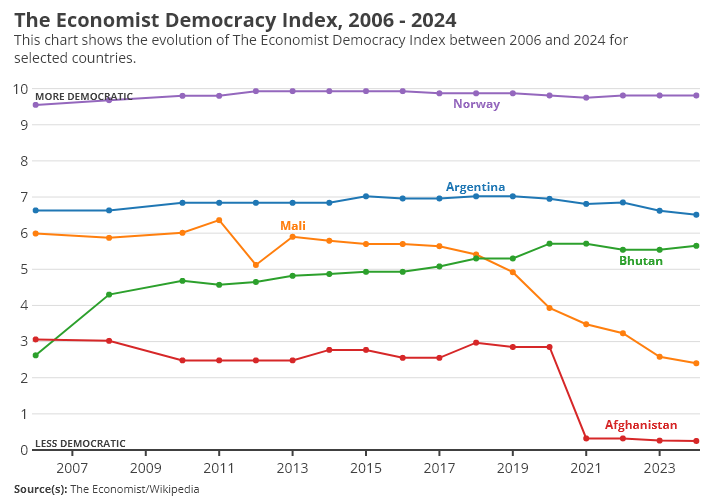
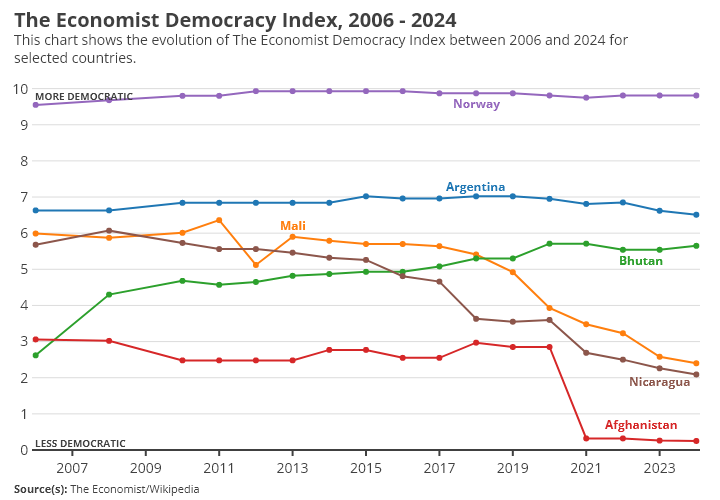
Add Nicaragua to figures.

diff --git a/reports/html/time_series_by_country.html b/reports/html/time_series_by_country.html
@@ -1,2 +1,2 @@
 <div>                        <script type="text/javascript">window.PlotlyConfig = {MathJaxConfig: 'local'};</script>
-        <script charset="utf-8" src="https://cdn.plot.ly/plotly-3.0.1.min.js"></script>                <div id="cc7f9410-89a2-4678-ba65-f77029b465cd" class="plotly-graph-div" style="height:500px; width:720px;"></div>            <script type="text/javascript">                window.PLOTLYENV=window.PLOTLYENV || {};                                if (document.getElementById("cc7f9410-89a2-4678-ba65-f77029b465cd")) {                    Plotly.newPlot(                        "cc7f9410-89a2-4678-ba65-f77029b465cd",                        [{"hoverlabel":{"bgcolor":"white","bordercolor":"rgb(0, 0, 0, 0)","font":{"color":"#1f77b4"}},"hovertemplate":"\u003cb\u003e%{data.name}\u003c\u002fb\u003e\u003cbr\u003eYear: %{x}\u003cbr\u003eIndex: %{y}\u003cextra\u003e\u003c\u002fextra\u003e","line":{"color":"#1f77b4","width":2},"mode":"markers+lines","name":"Argentina","x":{"dtype":"i2","bdata":"6AfnB+YH5QfkB+MH4gfhB+AH3wfeB90H3AfbB9oH2AfWBw=="},"y":{"dtype":"f8","bdata":"CtejcD0KGkB7FK5H4XoaQGZmZmZmZhtAPQrXo3A9G0DNzMzMzMwbQBSuR+F6FBxAFK5H4XoUHEDXo3A9CtcbQNejcD0K1xtAFK5H4XoUHEBcj8L1KFwbQFyPwvUoXBtAXI\u002fC9ShcG0Bcj8L1KFwbQFyPwvUoXBtAhetRuB6FGkCF61G4HoUaQA=="},"type":"scatter"},{"hoverlabel":{"bgcolor":"white","bordercolor":"rgb(0, 0, 0, 0)","font":{"color":"#ff7f0e"}},"hovertemplate":"\u003cb\u003e%{data.name}\u003c\u002fb\u003e\u003cbr\u003eYear: %{x}\u003cbr\u003eIndex: %{y}\u003cextra\u003e\u003c\u002fextra\u003e","line":{"color":"#ff7f0e","width":2},"mode":"markers+lines","name":"Mali","x":{"dtype":"i2","bdata":"6AfnB+YH5QfkB+MH4gfhB+AH3wfeB90H3AfbB9oH2AfWBw=="},"y":{"dtype":"f8","bdata":"MzMzMzMzA0CkcD0K16MEQNejcD0K1wlA16NwPQrXC0BxPQrXo3APQK5H4XoUrhNApHA9CtejFUCPwvUoXI8WQM3MzMzMzBZAzczMzMzMFkApXI\u002fC9SgXQJqZmZmZmRdAexSuR+F6FEBxPQrXo3AZQArXo3A9ChhAexSuR+F6F0D2KFyPwvUXQA=="},"type":"scatter"},{"hoverlabel":{"bgcolor":"white","bordercolor":"rgb(0, 0, 0, 0)","font":{"color":"#2ca02c"}},"hovertemplate":"\u003cb\u003e%{data.name}\u003c\u002fb\u003e\u003cbr\u003eYear: %{x}\u003cbr\u003eIndex: %{y}\u003cextra\u003e\u003c\u002fextra\u003e","line":{"color":"#2ca02c","width":2},"mode":"markers+lines","name":"Bhutan","x":{"dtype":"i2","bdata":"6AfnB+YH5QfkB+MH4gfhB+AH3wfeB90H3AfbB9oH2AfWBw=="},"y":{"dtype":"f8","bdata":"mpmZmZmZFkApXI\u002fC9SgWQClcj8L1KBZA16NwPQrXFkDXo3A9CtcWQDMzMzMzMxVAMzMzMzMzFUBSuB6F61EUQLgehetRuBNAuB6F61G4E0B7FK5H4XoTQEjhehSuRxNAmpmZmZmZEkBI4XoUrkcSQLgehetRuBJAMzMzMzMzEUD2KFyPwvUEQA=="},"type":"scatter"},{"hoverlabel":{"bgcolor":"white","bordercolor":"rgb(0, 0, 0, 0)","font":{"color":"#d62728"}},"hovertemplate":"\u003cb\u003e%{data.name}\u003c\u002fb\u003e\u003cbr\u003eYear: %{x}\u003cbr\u003eIndex: %{y}\u003cextra\u003e\u003c\u002fextra\u003e","line":{"color":"#d62728","width":2},"mode":"markers+lines","name":"Afghanistan","x":{"dtype":"i2","bdata":"6AfnB+YH5QfkB+MH4gfhB+AH3wfeB90H3AfbB9oH2AfWBw=="},"y":{"dtype":"f8","bdata":"AAAAAAAA0D+kcD0K16PQP3sUrkfhetQ\u002fexSuR+F61D\u002fNzMzMzMwGQM3MzMzMzAZAw\u002fUoXI\u002fCB0BmZmZmZmYEQGZmZmZmZgRAKVyPwvUoBkApXI\u002fC9SgGQNejcD0K1wNA16NwPQrXA0DXo3A9CtcDQNejcD0K1wNAKVyPwvUoCEB7FK5H4XoIQA=="},"type":"scatter"},{"hoverlabel":{"bgcolor":"white","bordercolor":"rgb(0, 0, 0, 0)","font":{"color":"#9467bd"}},"hovertemplate":"\u003cb\u003e%{data.name}\u003c\u002fb\u003e\u003cbr\u003eYear: %{x}\u003cbr\u003eIndex: %{y}\u003cextra\u003e\u003c\u002fextra\u003e","line":{"color":"#9467bd","width":2},"mode":"markers+lines","name":"Norway","x":{"dtype":"i2","bdata":"6AfnB+YH5QfkB+MH4gfhB+AH3wfeB90H3AfbB9oH2AfWBw=="},"y":{"dtype":"f8","bdata":"H4XrUbieI0AfhetRuJ4jQB+F61G4niNAAAAAAACAI0AfhetRuJ4jQD0K16NwvSNAPQrXo3C9I0A9CtejcL0jQFyPwvUo3CNAXI\u002fC9SjcI0Bcj8L1KNwjQFyPwvUo3CNAXI\u002fC9SjcI0CamZmZmZkjQJqZmZmZmSNAXI\u002fC9ShcI0CamZmZmRkjQA=="},"type":"scatter"}],                        {"template":{"data":{"histogram2dcontour":[{"type":"histogram2dcontour","colorbar":{"outlinewidth":0,"ticks":""},"colorscale":[[0.0,"#0d0887"],[0.1111111111111111,"#46039f"],[0.2222222222222222,"#7201a8"],[0.3333333333333333,"#9c179e"],[0.4444444444444444,"#bd3786"],[0.5555555555555556,"#d8576b"],[0.6666666666666666,"#ed7953"],[0.7777777777777778,"#fb9f3a"],[0.8888888888888888,"#fdca26"],[1.0,"#f0f921"]]}],"choropleth":[{"type":"choropleth","colorbar":{"outlinewidth":0,"ticks":""}}],"histogram2d":[{"type":"histogram2d","colorbar":{"outlinewidth":0,"ticks":""},"colorscale":[[0.0,"#0d0887"],[0.1111111111111111,"#46039f"],[0.2222222222222222,"#7201a8"],[0.3333333333333333,"#9c179e"],[0.4444444444444444,"#bd3786"],[0.5555555555555556,"#d8576b"],[0.6666666666666666,"#ed7953"],[0.7777777777777778,"#fb9f3a"],[0.8888888888888888,"#fdca26"],[1.0,"#f0f921"]]}],"heatmap":[{"type":"heatmap","colorbar":{"outlinewidth":0,"ticks":""},"colorscale":[[0.0,"#0d0887"],[0.1111111111111111,"#46039f"],[0.2222222222222222,"#7201a8"],[0.3333333333333333,"#9c179e"],[0.4444444444444444,"#bd3786"],[0.5555555555555556,"#d8576b"],[0.6666666666666666,"#ed7953"],[0.7777777777777778,"#fb9f3a"],[0.8888888888888888,"#fdca26"],[1.0,"#f0f921"]]}],"contourcarpet":[{"type":"contourcarpet","colorbar":{"outlinewidth":0,"ticks":""}}],"contour":[{"type":"contour","colorbar":{"outlinewidth":0,"ticks":""},"colorscale":[[0.0,"#0d0887"],[0.1111111111111111,"#46039f"],[0.2222222222222222,"#7201a8"],[0.3333333333333333,"#9c179e"],[0.4444444444444444,"#bd3786"],[0.5555555555555556,"#d8576b"],[0.6666666666666666,"#ed7953"],[0.7777777777777778,"#fb9f3a"],[0.8888888888888888,"#fdca26"],[1.0,"#f0f921"]]}],"surface":[{"type":"surface","colorbar":{"outlinewidth":0,"ticks":""},"colorscale":[[0.0,"#0d0887"],[0.1111111111111111,"#46039f"],[0.2222222222222222,"#7201a8"],[0.3333333333333333,"#9c179e"],[0.4444444444444444,"#bd3786"],[0.5555555555555556,"#d8576b"],[0.6666666666666666,"#ed7953"],[0.7777777777777778,"#fb9f3a"],[0.8888888888888888,"#fdca26"],[1.0,"#f0f921"]]}],"mesh3d":[{"type":"mesh3d","colorbar":{"outlinewidth":0,"ticks":""}}],"scatter":[{"fillpattern":{"fillmode":"overlay","size":10,"solidity":0.2},"type":"scatter"}],"parcoords":[{"type":"parcoords","line":{"colorbar":{"outlinewidth":0,"ticks":""}}}],"scatterpolargl":[{"type":"scatterpolargl","marker":{"colorbar":{"outlinewidth":0,"ticks":""}}}],"bar":[{"error_x":{"color":"#2a3f5f"},"error_y":{"color":"#2a3f5f"},"marker":{"line":{"color":"#E5ECF6","width":0.5},"pattern":{"fillmode":"overlay","size":10,"solidity":0.2}},"type":"bar"}],"scattergeo":[{"type":"scattergeo","marker":{"colorbar":{"outlinewidth":0,"ticks":""}}}],"scatterpolar":[{"type":"scatterpolar","marker":{"colorbar":{"outlinewidth":0,"ticks":""}}}],"histogram":[{"marker":{"pattern":{"fillmode":"overlay","size":10,"solidity":0.2}},"type":"histogram"}],"scattergl":[{"type":"scattergl","marker":{"colorbar":{"outlinewidth":0,"ticks":""}}}],"scatter3d":[{"type":"scatter3d","line":{"colorbar":{"outlinewidth":0,"ticks":""}},"marker":{"colorbar":{"outlinewidth":0,"ticks":""}}}],"scattermap":[{"type":"scattermap","marker":{"colorbar":{"outlinewidth":0,"ticks":""}}}],"scattermapbox":[{"type":"scattermapbox","marker":{"colorbar":{"outlinewidth":0,"ticks":""}}}],"scatterternary":[{"type":"scatterternary","marker":{"colorbar":{"outlinewidth":0,"ticks":""}}}],"scattercarpet":[{"type":"scattercarpet","marker":{"colorbar":{"outlinewidth":0,"ticks":""}}}],"carpet":[{"aaxis":{"endlinecolor":"#2a3f5f","gridcolor":"white","linecolor":"white","minorgridcolor":"white","startlinecolor":"#2a3f5f"},"baxis":{"endlinecolor":"#2a3f5f","gridcolor":"white","linecolor":"white","minorgridcolor":"white","startlinecolor":"#2a3f5f"},"type":"carpet"}],"table":[{"cells":{"fill":{"color":"#EBF0F8"},"line":{"color":"white"}},"header":{"fill":{"color":"#C8D4E3"},"line":{"color":"white"}},"type":"table"}],"barpolar":[{"marker":{"line":{"color":"#E5ECF6","width":0.5},"pattern":{"fillmode":"overlay","size":10,"solidity":0.2}},"type":"barpolar"}],"pie":[{"automargin":true,"type":"pie"}]},"layout":{"autotypenumbers":"strict","colorway":["#636efa","#EF553B","#00cc96","#ab63fa","#FFA15A","#19d3f3","#FF6692","#B6E880","#FF97FF","#FECB52"],"font":{"color":"#2a3f5f"},"hovermode":"closest","hoverlabel":{"align":"left"},"paper_bgcolor":"white","plot_bgcolor":"#E5ECF6","polar":{"bgcolor":"#E5ECF6","angularaxis":{"gridcolor":"white","linecolor":"white","ticks":""},"radialaxis":{"gridcolor":"white","linecolor":"white","ticks":""}},"ternary":{"bgcolor":"#E5ECF6","aaxis":{"gridcolor":"white","linecolor":"white","ticks":""},"baxis":{"gridcolor":"white","linecolor":"white","ticks":""},"caxis":{"gridcolor":"white","linecolor":"white","ticks":""}},"coloraxis":{"colorbar":{"outlinewidth":0,"ticks":""}},"colorscale":{"sequential":[[0.0,"#0d0887"],[0.1111111111111111,"#46039f"],[0.2222222222222222,"#7201a8"],[0.3333333333333333,"#9c179e"],[0.4444444444444444,"#bd3786"],[0.5555555555555556,"#d8576b"],[0.6666666666666666,"#ed7953"],[0.7777777777777778,"#fb9f3a"],[0.8888888888888888,"#fdca26"],[1.0,"#f0f921"]],"sequentialminus":[[0.0,"#0d0887"],[0.1111111111111111,"#46039f"],[0.2222222222222222,"#7201a8"],[0.3333333333333333,"#9c179e"],[0.4444444444444444,"#bd3786"],[0.5555555555555556,"#d8576b"],[0.6666666666666666,"#ed7953"],[0.7777777777777778,"#fb9f3a"],[0.8888888888888888,"#fdca26"],[1.0,"#f0f921"]],"diverging":[[0,"#8e0152"],[0.1,"#c51b7d"],[0.2,"#de77ae"],[0.3,"#f1b6da"],[0.4,"#fde0ef"],[0.5,"#f7f7f7"],[0.6,"#e6f5d0"],[0.7,"#b8e186"],[0.8,"#7fbc41"],[0.9,"#4d9221"],[1,"#276419"]]},"xaxis":{"gridcolor":"white","linecolor":"white","ticks":"","title":{"standoff":15},"zerolinecolor":"white","automargin":true,"zerolinewidth":2},"yaxis":{"gridcolor":"white","linecolor":"white","ticks":"","title":{"standoff":15},"zerolinecolor":"white","automargin":true,"zerolinewidth":2},"scene":{"xaxis":{"backgroundcolor":"#E5ECF6","gridcolor":"white","linecolor":"white","showbackground":true,"ticks":"","zerolinecolor":"white","gridwidth":2},"yaxis":{"backgroundcolor":"#E5ECF6","gridcolor":"white","linecolor":"white","showbackground":true,"ticks":"","zerolinecolor":"white","gridwidth":2},"zaxis":{"backgroundcolor":"#E5ECF6","gridcolor":"white","linecolor":"white","showbackground":true,"ticks":"","zerolinecolor":"white","gridwidth":2}},"shapedefaults":{"line":{"color":"#2a3f5f"}},"annotationdefaults":{"arrowcolor":"#2a3f5f","arrowhead":0,"arrowwidth":1},"geo":{"bgcolor":"white","landcolor":"#E5ECF6","subunitcolor":"white","showland":true,"showlakes":true,"lakecolor":"white"},"title":{"x":0.05},"mapbox":{"style":"light"}}},"yaxis":{"tickfont":{"size":14,"color":"#404040","weight":400},"range":[0,10.1],"tickvals":[0,1,2,3,4,5,6,7,8,9,10],"ticks":"outside","ticklen":0,"zeroline":true,"zerolinewidth":2,"showgrid":true,"zerolinecolor":"#404040","gridcolor":"gainsboro","gridwidth":1,"griddash":"solid"},"xaxis":{"tickfont":{"size":14,"color":"#404040","weight":400},"range":[2005.9,2024.1],"tickvals":[2007,2009,2011,2013,2015,2017,2019,2021,2023],"ticks":"outside","tickcolor":"#404040","tickwidth":2,"zeroline":false},"margin":{"l":20,"r":20,"t":85,"b":50},"width":720,"height":500,"plot_bgcolor":"white","showlegend":false,"annotations":[{"font":{"color":"#1f77b4","size":12},"showarrow":false,"text":"\u003cb\u003eArgentina\u003c\u002fb\u003e","x":2018,"y":7.3,"yanchor":"middle"},{"font":{"color":"#ff7f0e","size":12},"showarrow":false,"text":"\u003cb\u003eMali\u003c\u002fb\u003e","x":2013,"y":6.2,"yanchor":"middle"},{"font":{"color":"#2ca02c","size":12},"showarrow":false,"text":"\u003cb\u003eBhutan\u003c\u002fb\u003e","x":2022.5,"y":5.25,"yanchor":"middle"},{"font":{"color":"#d62728","size":12},"showarrow":false,"text":"\u003cb\u003eAfghanistan\u003c\u002fb\u003e","x":2022.5,"y":0.7,"yanchor":"middle"},{"font":{"color":"#9467bd","size":12},"showarrow":false,"text":"\u003cb\u003eNorway\u003c\u002fb\u003e","x":2018,"y":9.6,"yanchor":"middle"},{"font":{"color":"#404040","size":20},"showarrow":false,"text":"\u003cb\u003eThe Economist Democracy Index, 2006 - 2024\u003c\u002fb\u003e","x":-0.03,"xanchor":"left","xref":"paper","y":1.18,"yanchor":"middle","yref":"paper"},{"align":"left","font":{"color":"#404040","size":14},"showarrow":false,"text":"This chart shows the evolution of The Economist Democracy Index between 2006 and 2024 for\u003cbr\u003eselected countries.","x":-0.03,"xanchor":"left","xref":"paper","y":1.1,"yanchor":"middle","yref":"paper"},{"font":{"color":"#404040","size":10},"showarrow":false,"text":"\u003cb\u003eMORE DEMOCRATIC\u003c\u002fb\u003e","x":0.001,"xanchor":"left","xref":"paper","y":9.8,"yanchor":"middle"},{"font":{"color":"#404040","size":10},"showarrow":false,"text":"\u003cb\u003eLESS DEMOCRATIC\u003c\u002fb\u003e","x":0.001,"xanchor":"left","xref":"paper","y":0.2,"yanchor":"middle"},{"font":{"color":"#404040","size":11},"showarrow":false,"text":"\u003cb\u003eSource(s):\u003c\u002fb\u003e \u003ca href='https:\u002f\u002fen.wikipedia.org\u002fwiki\u002fThe_Economist_Democracy_Index'\u003eThe Economist\u002fWikipedia\u003c\u002fa\u003e","x":-0.03,"xanchor":"left","xref":"paper","y":-0.08,"yanchor":"top","yref":"paper"}]},                        {"responsive": true}                    )                };            </script>        </div>
[1 lines of base64/hex data omitted]

diff --git a/src/plots.py b/src/plots.py
@@ -88,7 +88,6 @@ def plot_evolution_regions() -> None:
 
 
 def plot_evolution_countries() -> None:
-    # data = Data()
     colors = Colors()
 
     fig = go.Figure()
@@ -110,20 +109,12 @@ def plot_evolution_countries() -> None:
         margin=dict(l=20, r=20, t=85, b=50)
     )
 
-    # for country in data.df["Country"].unique():
-    #     country_data = data.df[data.df["Country"] == country]
-    #     fig.add_trace(
-    #         go.Scatter(x=country_data["Year"],
-    #                    y=country_data["DemocracyIndex"],
-    #                    mode="lines", name=country,
-    #                    line=dict(color=colors.LIGHT_GRAY, width=0.5),
-    #                    hoverinfo="skip"))
-
     _add_country(fig, "Argentina", (2018, 7.3), colors.BLUE)
     _add_country(fig, "Mali", (2013, 6.2), colors.ORANGE)
     _add_country(fig, "Bhutan", (2022.5, 5.25), colors.GREEN)
     _add_country(fig, "Afghanistan", (2022.5, 0.7), colors.RED)
     _add_country(fig, "Norway", (2018, 9.6), colors.PURPLE)
+    _add_country(fig, "Nicaragua", (2023, 1.9), colors.BROWN)
 
     fig.add_annotation(
         text="<b>The Economist Democracy Index, 2006 - 2024</b>",
@@ -357,10 +348,10 @@ def plot_regions() -> None:
 
 
 if __name__ == "__main__":
-    plot_evolution_regions()
+    # plot_evolution_regions()
     plot_evolution_countries()
-    plot_world_map_index(year=2006)
-    plot_world_map_index(year=2024)
-    plot_world_map_index_change(start_year=2006, end_year=2015)
-    plot_world_map_index_change(start_year=2006, end_year=2024)
-    plot_regions()
+    # plot_world_map_index(year=2006)
+    # plot_world_map_index(year=2024)
+    # plot_world_map_index_change(start_year=2006, end_year=2015)
+    # plot_world_map_index_change(start_year=2006, end_year=2024)
+    # plot_regions()
